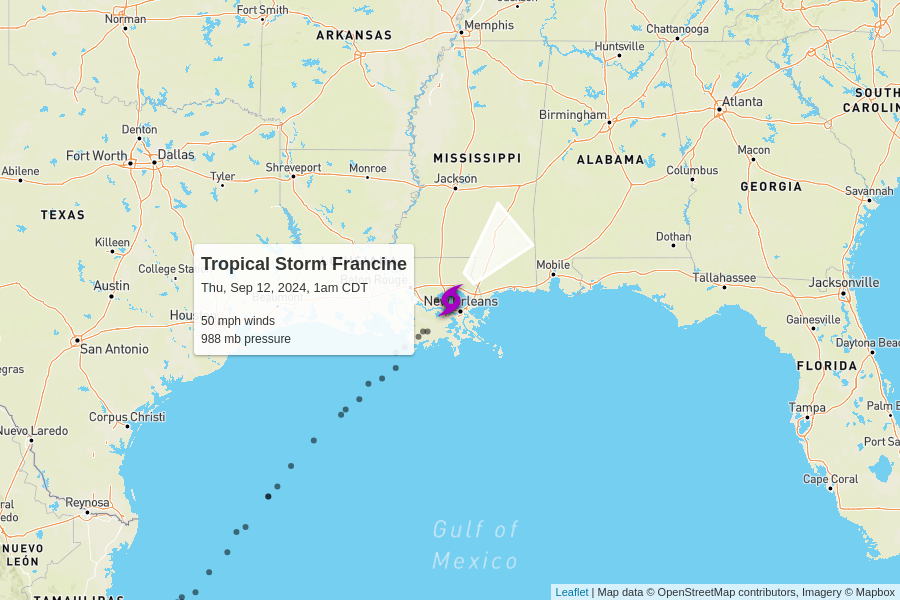
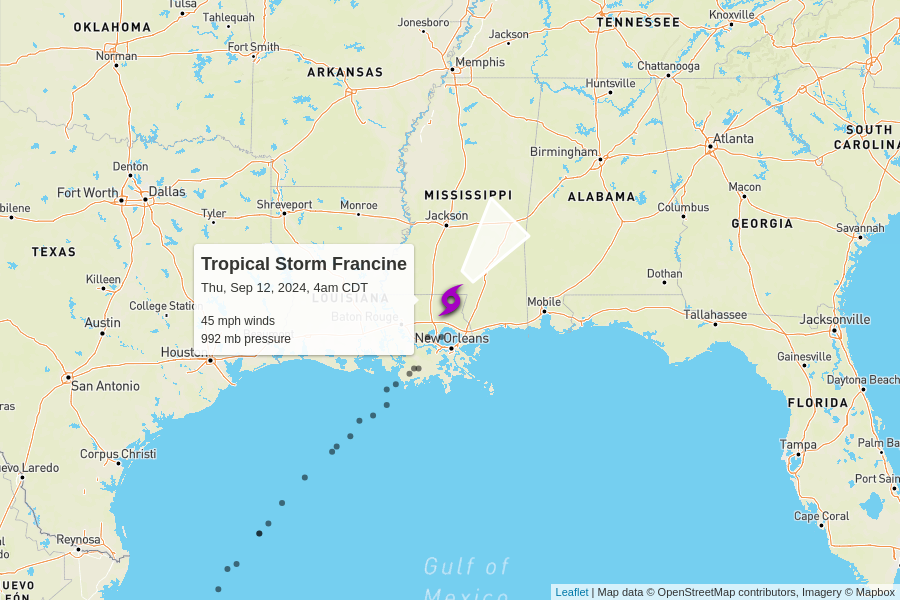
automatic update

diff --git a/docs/index.html b/docs/index.html
@@ -104,7 +104,7 @@
         <td colspan="6" class="storm category-0" >
           <h2>
             Tropical Storm Francine
-            <p class="updated">last updated <span data-time>2024-09-12T06:00:00.000Z</span></p>
+            <p class="updated">last updated <span data-time>2024-09-12T09:00:00.000Z</span></p>
           </h2>
         </td>
       </tr>
@@ -119,12 +119,12 @@
       </tr>
       <tr>
         <td class="spacer"></td>
-        <td>50 mph<br>-20 mph since last update</td>
-        <td>988 mb<br>+6 mb since last update</td>
+        <td>45 mph<br>-5 mph since last update</td>
+        <td>992 mb<br>+4 mb since last update</td>
         <td>
-          14 mph to the northeast
+          12 mph to the northeast
           <br/>
-          <span style="display: inline-block; font-size: 1.5em; transform: rotate(45deg);">↑</span>
+          <span style="display: inline-block; font-size: 1.5em; transform: rotate(40deg);">↑</span>
         </td>
         <td><a href="https://raw.githubusercontent.com/mgwalker/atlantic-hurricanes/main/data/csv/AL062024.csv">AL062024.csv</a></td>
         <td><a href="https://www.nhc.noaa.gov/archive/2024/FRANCINE.shtml?">NHC advisories</a></td>
@@ -148,7 +148,7 @@
         <td colspan="6" class="storm category-0" >
           <h2>
             Tropical Depression Seven
-            <p class="updated">last updated <span data-time>2024-09-12T03:00:00.000Z</span></p>
+            <p class="updated">last updated <span data-time>2024-09-12T09:00:00.000Z</span></p>
           </h2>
         </td>
       </tr>
@@ -168,7 +168,7 @@
         <td>
           17 mph to the west-northwest
           <br/>
-          <span style="display: inline-block; font-size: 1.5em; transform: rotate(285deg);">↑</span>
+          <span style="display: inline-block; font-size: 1.5em; transform: rotate(290deg);">↑</span>
         </td>
         <td><a href="https://raw.githubusercontent.com/mgwalker/atlantic-hurricanes/main/data/csv/AL072024.csv">AL072024.csv</a></td>
         <td><a href="https://www.nhc.noaa.gov/archive/2024/SEVEN.shtml?">NHC advisories</a></td>
